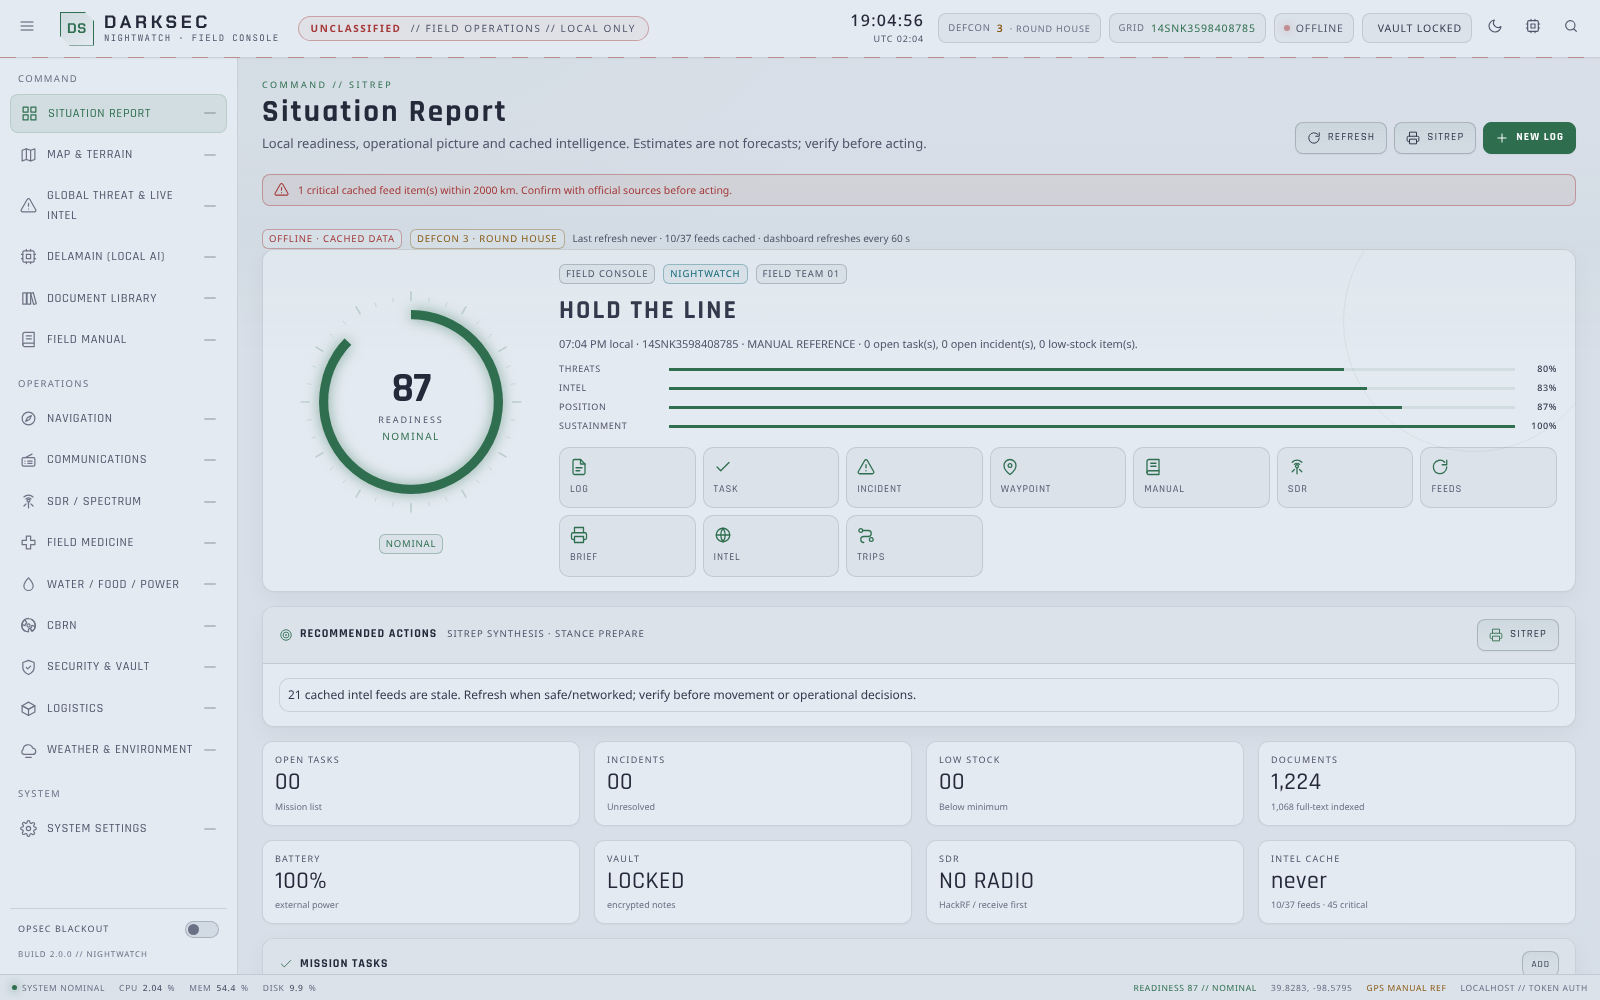
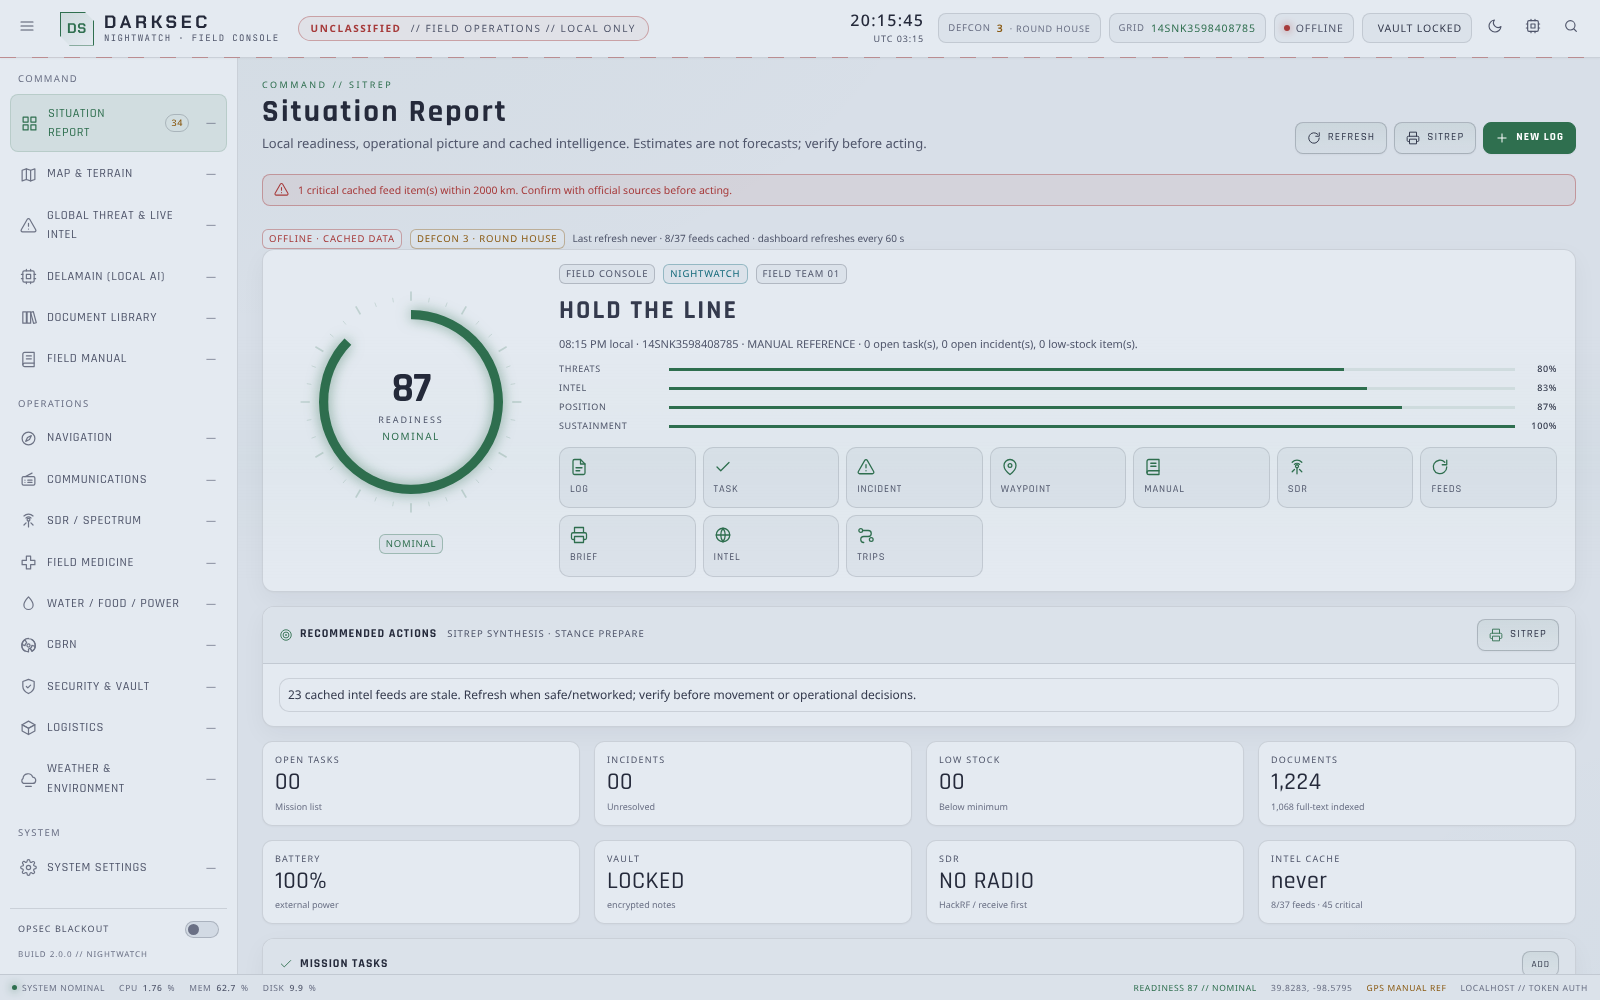
Remove the stray decorative ring from the SITREP hero
The oversized .hero::after circle was being mistaken for the readiness gauge's outer ring; remove it so the gauge stands alone in both light and dark themes. Refresh the screenshot.

diff --git a/ui/css/app.css b/ui/css/app.css
@@ -704,10 +704,6 @@ body.opsec .opsec-mask { -webkit-text-security: disc; }
   display: grid; grid-template-columns: 260px 1fr; gap: 18px; align-items: center;
   padding: 14px 18px; position: relative; overflow: hidden;
 }
-.hero::after {
-  content: ""; position: absolute; right: -30px; top: -60px; width: 260px; height: 260px;
-  border: 1px solid rgba(var(--acc-rgb), .08); border-radius: 50%; pointer-events: none;
-}
 .hero-copy .bandline { display: flex; align-items: center; gap: 8px; margin-bottom: 7px; }
 .hero-copy h2 { font-size: 26px; letter-spacing: .08em; }
 .hero-copy p { color: var(--muted); font-size: 11px; margin: 4px 0 0; max-width: 640px; }
